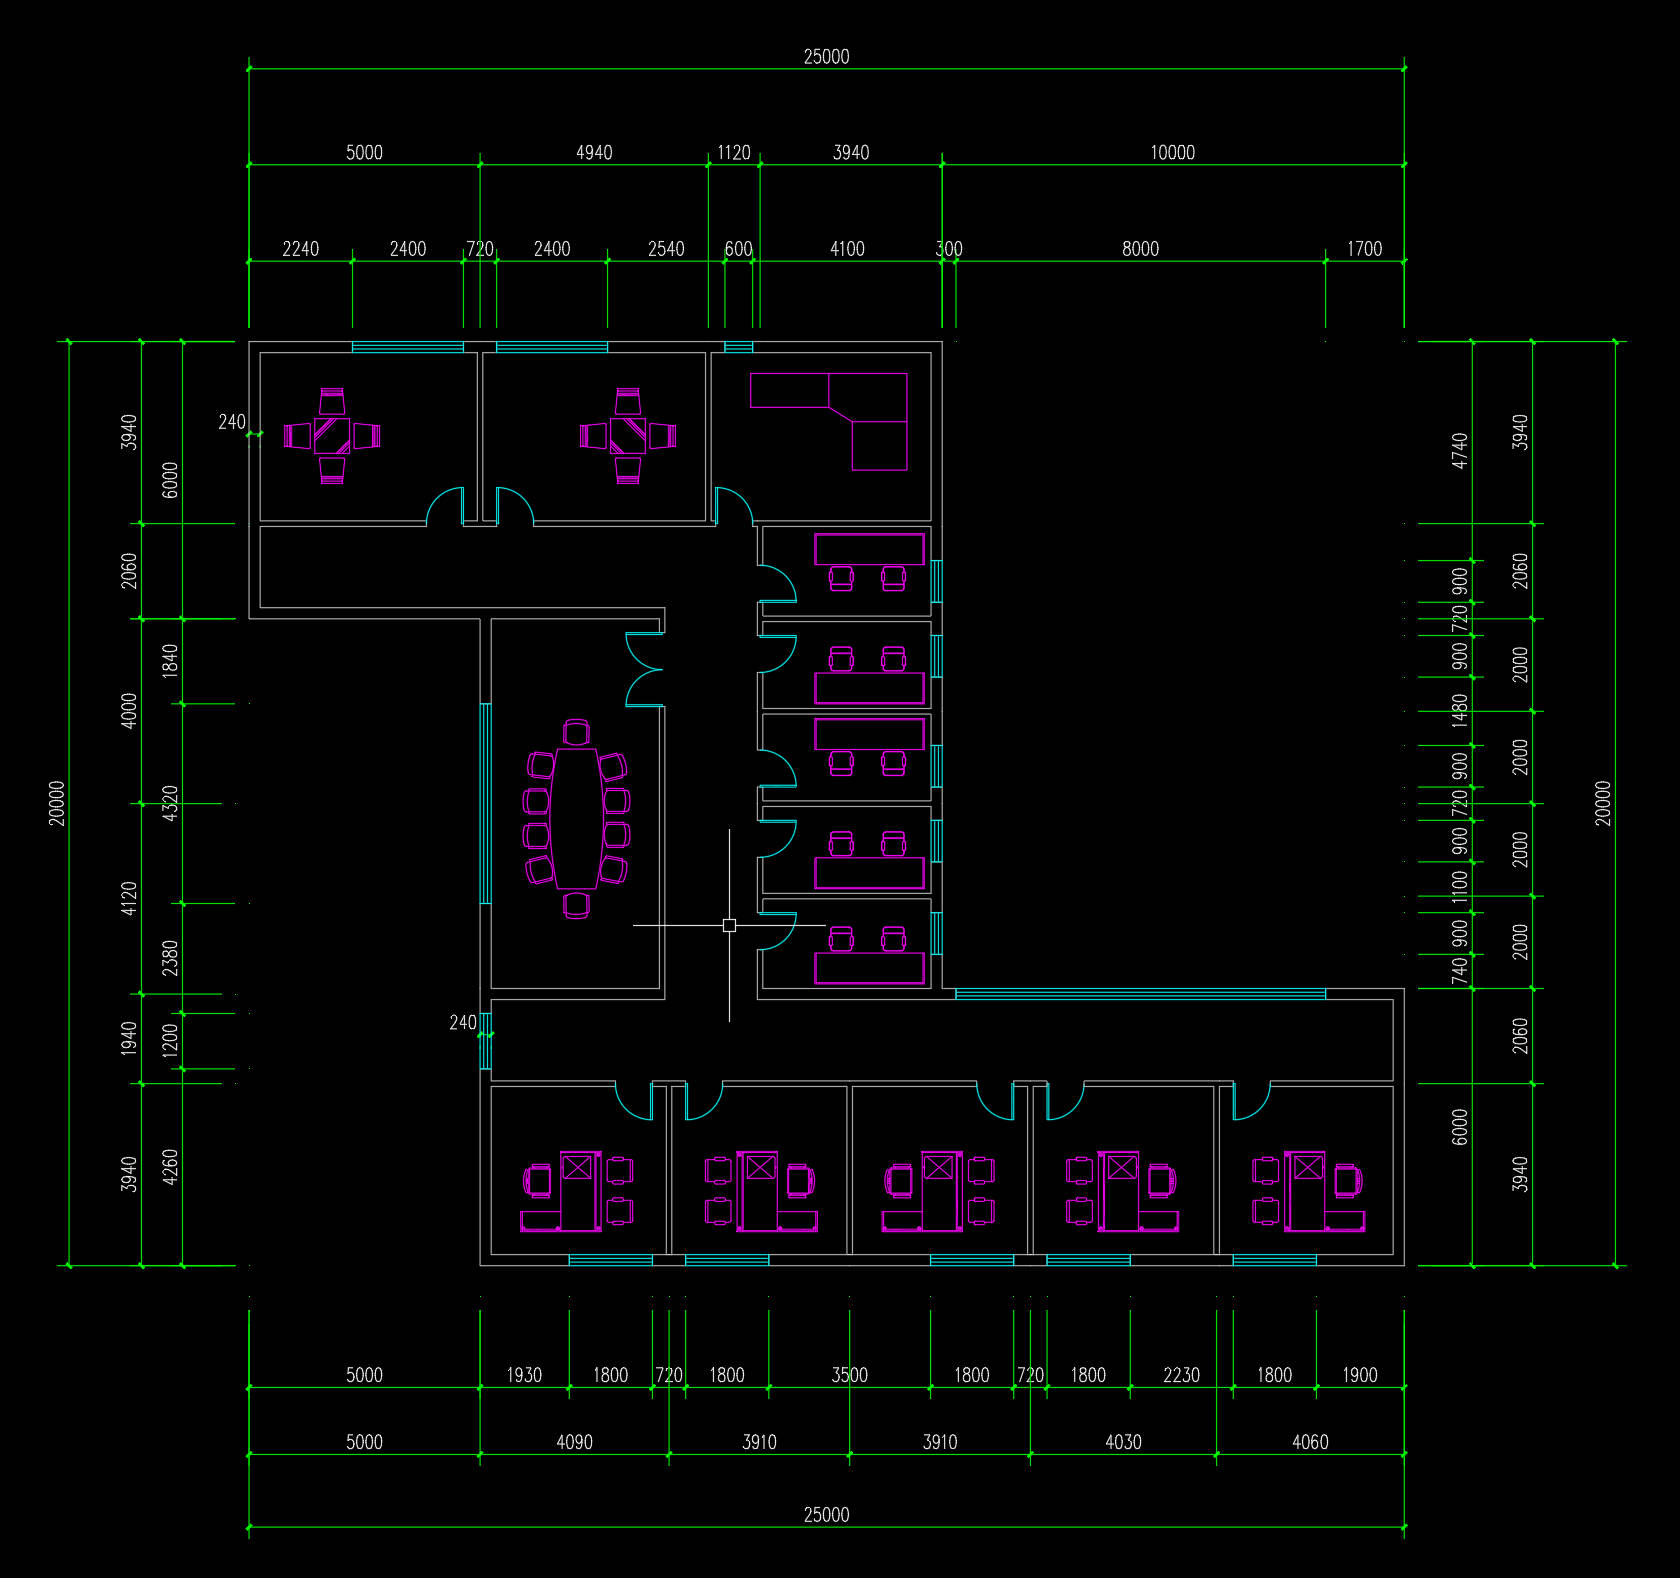
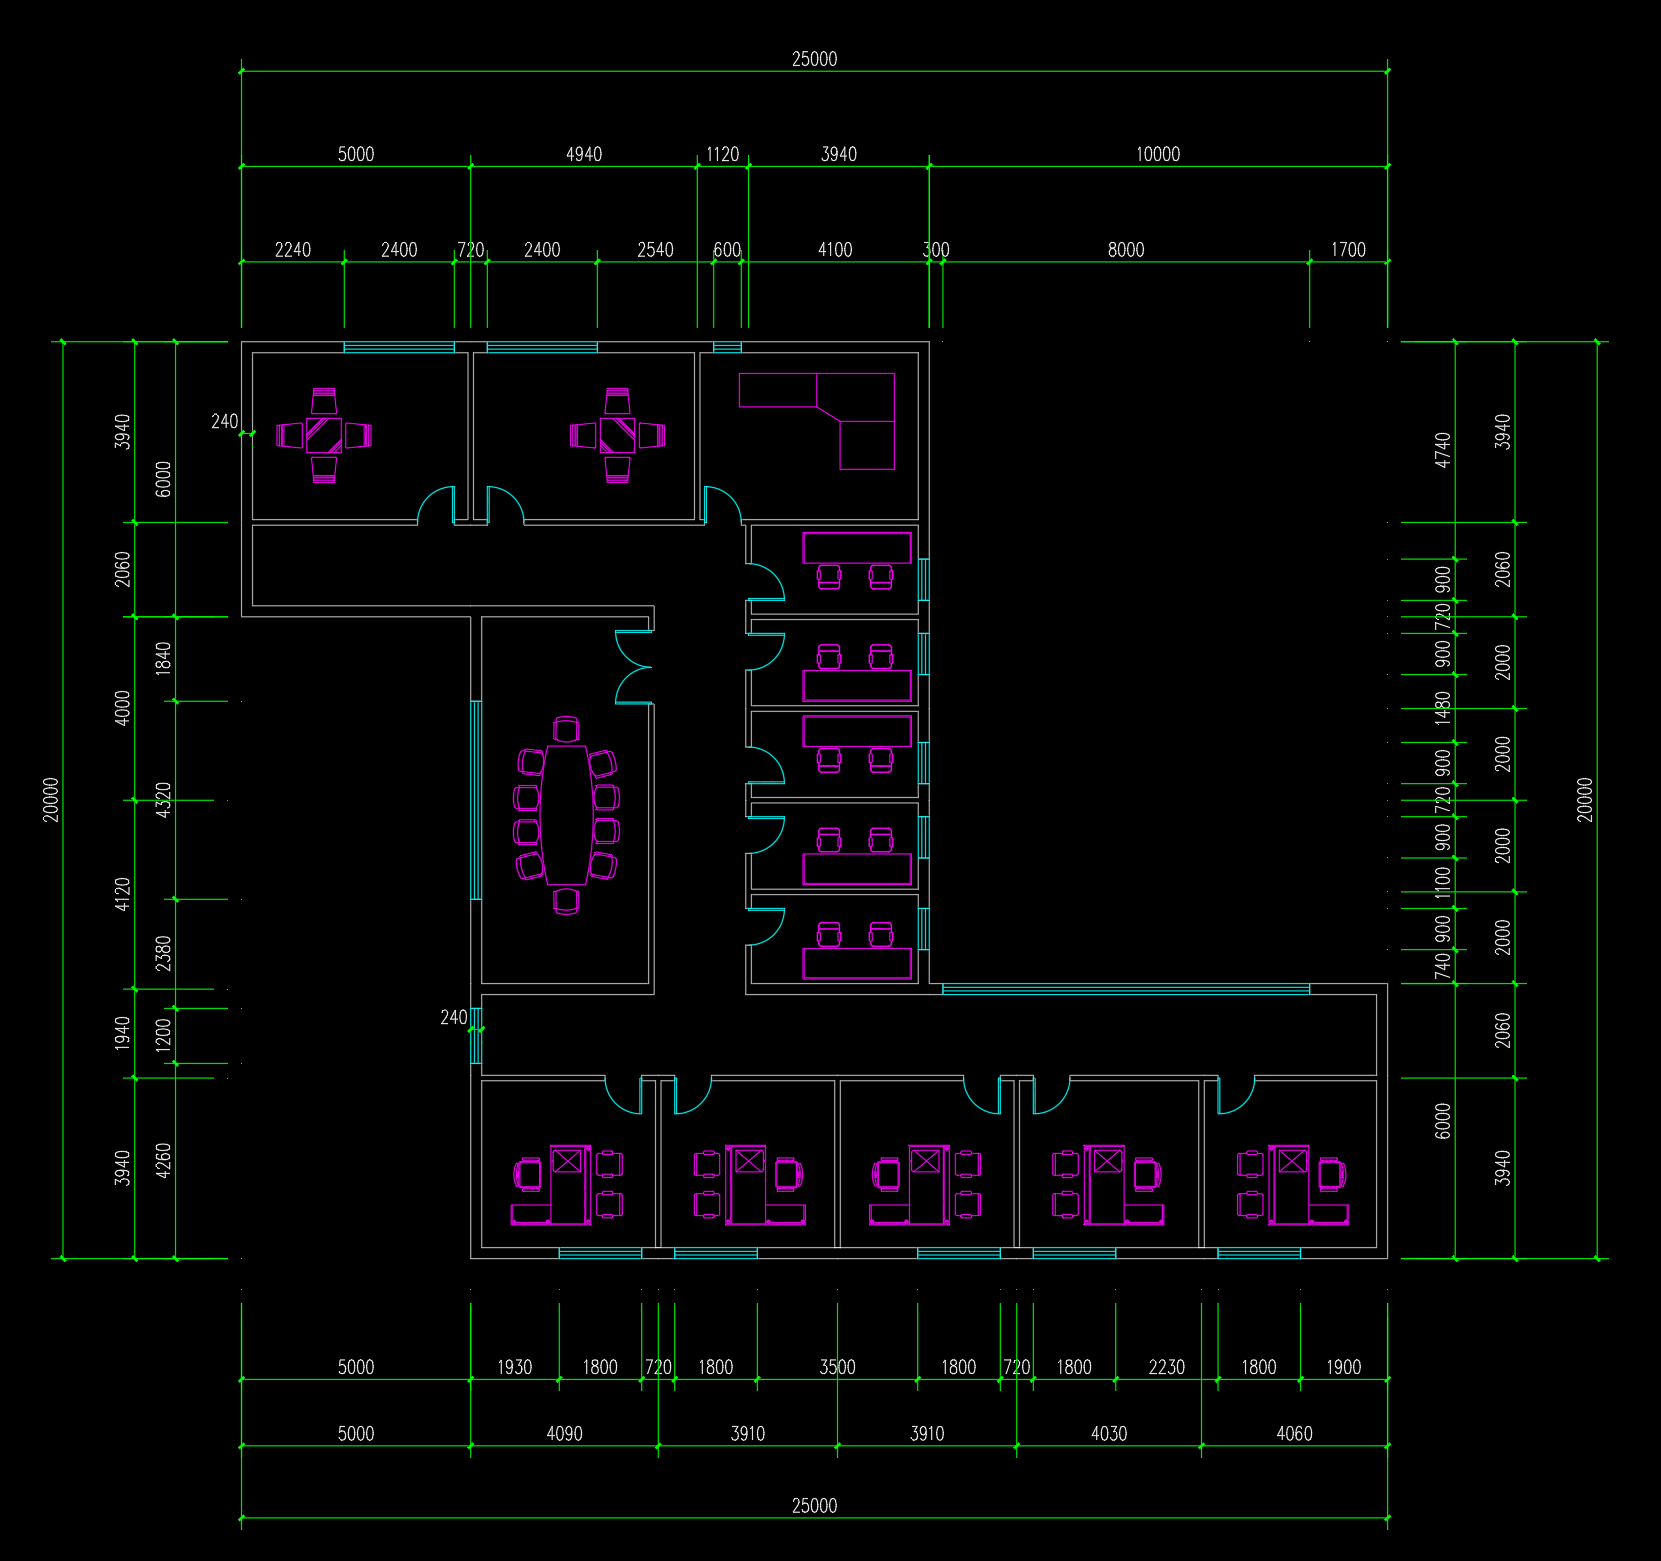
08.20_sm25ElevationCarrierGap_F65_Registered_And_DispatchIssued
① 撞出 F-65：立面洞口提取把「图怎么画」烤死在代码里——window_selector.entity_types
   全文从未被读取（tarch_normalize.py:1694 硬编码 dxftype()=="LINE"），sm25 立面窗
   全是 INSERT(17)+LWPOLYLINE(14) ⇒ 静默产 0 窗 + 21 条 door_block_drift 误报。
   实测应得 31 窗 + 3 门。门那条路同样走不通（要求闭合 LWPOLYLINE，sm25 门块的洞口
   是外框 4 条 LINE）。登记 plan.md。
   ⛔ 顺带撤回我误报的 F-66：拿图块插入点当外包框的代理量，实算 matrix44 后两块相邻
   不重叠 = 一樘 1600 双开门，现行 union 逻辑正好合并它。
② 为何此刻：这是「下一步 = 推 sm25 验 C2」的阻断点，写 16KB 转换请求之前必须先解。
③ 影响：出派工单（sol 施工 / GLM 跨家族审），核心是把洞口画法做成可扩展的方言层
   （用户当面加的硬约束：要兼顾不同画图习惯，且 CAD 模态主线要复用同一环节）+
   一道与方言无关的清点对账门，把「没见过的画法」从静默漏变成指名道姓报红。
   同轮用户已填 testdata（14/15 热区、580m²、Office）并要求删除 source_images。

diff --git a/AI_agent/logs/reviews/request/2026-08-20_tarch_elevation_opening_carriers_dispatch_sol.md b/AI_agent/logs/reviews/request/2026-08-20_tarch_elevation_opening_carriers_dispatch_sol.md
@@ -1,0 +1,227 @@
+# 派工单 · 立面洞口「载体方言层」（F-65 修复 + 拓展性改造）
+
+> **席位**：施工 = **sol**（GPT 家族）· 跨家族审 = **GLM** · 主控 = Claude（出单 / 审裁决 / 轻门全量）
+> **档位**：**工程档**（碰答案产出路径）⇒ gate① + 全仓绿 + 只锁契约与几何不变量
+> **前序**：`b2460bb` 转换器多层化（同一函数族，刚改过，先读那次 diff）
+> **登记**：[plan.md](../../../plan.md) F-65
+
+---
+
+## 0. 一句话
+
+立面洞口的提取现在**把「图怎么画」烤死在代码里**（只认直线）；本批把它改成
+**「画法由请求声明、代码只做匹配与执行」的方言层**，并加一道**清点对账门**，
+让「没见过的画法」必然报红且指名道姓，而不是静默少几扇窗。
+
+---
+
+## 1. ⭐ 硬约束：拓展性与适配性（用户 2026-08-20 当面提，本批第一约束）
+
+用户原话（转述）：**「这部分要兼顾各种各样的图，因为画图习惯不一样，使用的图块、或者手工的画法也不一样，
+这些可能也需要判断，不是一套机械方法可以全部搞定的……这个也要注意拓展性和适配性，
+因为后续 CAD 模态作为主线接入也需要相似的这个环节。」**
+
+⇒ 本批**不是**「给 sm25 补两个 if 分支」。验收时会按下面三条判：
+
+1. **加一种新画法 = 加一条规则实现 + 请求里声明一条规则，⛔ 不得修改任何已有分支。**
+   （审阅方会拿一种本批未实现的画法当思想实验：比如「窗 = 一个 HATCH」或「窗 = 带弧的多段线」，
+   问「接它要动几处已有代码」，答案必须是 0 处已有分支。）
+2. **代码不得推断画法**：不许出现「看起来像窗」「大概是门」这类启发式。
+   认不认得出，只取决于请求里声明了什么；认不出就报红。
+3. **这一层是 CAD 模态主线的同一个环节**：把任意 DXF 实体归类成语义构件（墙/窗/门/其他）。
+   设计与命名要能直接搬过去，⛔ 不要把 `tarch` / 天正专有词烤进通用结构里
+   （方言**内容**可以是天正的，方言**机制**不能是）。
+   参考不变量 #6（[CLAUDE.md §1.5](../../../CLAUDE.md)）：**纯只适用当前一份图的方案没有意义。**
+
+---
+
+## 2. 现状（主控实测 · ⚠ 可能有错，见 §7）
+
+### 2.1 缺陷本体
+
+[`src/agent/judge/tarch_normalize.py:1694`](../../../../src/agent/judge/tarch_normalize.py#L1694)：
+
+```python
+lines = [e for e in msp if e.dxftype() == "LINE" and e.dxf.layer in view.window_selector.layers and _inside(...)]
+```
+
+- **`window_selector.entity_types` 全文从未被读取**（已 grep 全仓确认：唯二引用点是 schema 定义与本行的 `.layers`）。
+  ⇒ schema 里那个字段是**摆设**，声明什么都不影响行为。
+- 提不出东西时**不产任何诊断**（空列表就是空列表）⇒ 静默零，F-64 同族。
+- 门那条路（1700–1754）要求洞口轮廓必须是**一条闭合 LWPOLYLINE**。
+- 门规则取自 `request.plan_views[0].dialect_rules`（**又一个 `[0]`**，与上一轮刚修掉的多层缺陷同形）。
+
+### 2.2 sm25 立面实况（`case_tests/test_baseline/gt_sources/sm25-L_anchor/sm25-L_t3.dxf`）
+
+| 视图框 | 图名 | 窗载体 | 门 |
+|---|---|---|---|
+| `382` | 西立面 | INSERT `$EWDLib$00000533` ×4 | INSERT `$EWDLib$00000621` ×2 |
+| `384` | 南立面 | INSERT `$EWDLib$00000533` ×7 | — |
+| `386` | 北立面 | INSERT `$EWDLib$00000533` ×6 + **闭合 LWPOLYLINE ×2** | — |
+| `388` | 东立面 | **闭合 LWPOLYLINE ×12** | INSERT `$EWDLib$00000621` ×2（相邻，合成 1 樘 1600 双开）|
+
+**应得答案 = 31 扇窗 + 3 樘门。当前跑出 0 扇窗 + 21 条 `door_block_drift` 误报。**
+
+⭐ **注意北立面**：**同一图层上两种载体混用** ⇒ 规则表必须允许多条规则命中同一图层。
+
+### 2.3 两个块定义（主控已拆开看过）
+
+- **窗块 `$EWDLib$00000533`**（8 条 LINE，无 LWPOLYLINE）：
+  外框 `(0,0)-(1200,600)` = 句柄 `316`/`317`/`319`/`31B`；内框 `(50,50)-(1150,550)` = 窗扇线。
+  **洞口 = 外框那 4 条 LINE。**
+- **门块 `$EWDLib$00000621`**（1 LWPOLYLINE + 19 LINE + 1 CIRCLE）：
+  外框 `(0,0)-(1200,2100)` = 句柄 `35E`/`35F`/`360`/`361` = **洞口**；
+  那条 LWPOLYLINE `34E` 是**未闭合的门扇轮廓**（`30..1170 × 0..2070`，比洞口窄 60、矮 30）。
+  ⇒ **现行「structural_outline 必须是闭合 LWPOLYLINE」的约定在这份图上门也走不通**，不只是窗。
+
+⇒ **洞口轮廓必须允许「一组 LINE」**，门窗共用同一条放宽。
+
+---
+
+## 3. 交付物
+
+### D1 · 洞口载体规则（schema，新增，请求级）
+
+新增一张**载体规则表**，门窗共用。建议形状（命名可改，语义不可改）：
+
+```python
+class OpeningCarrierMatchV1(_StrictModel):
+    entity_type: TarchEntityType                     # LINE / LWPOLYLINE / INSERT / ...
+    layers: list[str]                                # 排序去重
+    block_name_exact: str | None = None              # 仅 INSERT
+    block_definition_sha256: Hex64 | None = None     # 仅 INSERT：钉死块定义，一改必红
+
+class OpeningOutlineV1(_StrictModel):
+    kind: Literal["closed_polyline_rect",            # 实体本身即闭合矩形
+                  "connected_line_group_rect",       # 同层连通直线组围成矩形（sm24 原路）
+                  "block_entity_rect"]               # 块内指定实体经插入变换后围成矩形
+    block_entity_roles: list[BlockEntityRoleV1] | None = None   # 仅 block_entity_rect
+
+class OpeningCarrierRuleV1(_StrictModel):
+    carrier_id: StableId                             # 稳定名，进 source_map 当证据
+    opening_kind: Literal["window", "door"]
+    match: OpeningCarrierMatchV1
+    outline: OpeningOutlineV1
+```
+
+- `block_entity_roles` 沿用现行 `entity_roles` 的形态（逐句柄 `structural_outline` / `nonstructural_detail`），
+  但**放宽为「`structural_outline` 可以是 1 条闭合 LWPOLYLINE，或 N 条 LINE」**；
+  N 条 LINE 走 `_rect_from_lines` 成矩形，成不了 ⇒ 红。
+- 规则表挂**请求级**（不是 `plan_views[0]`）。⛔ 顺手把 1701 行那个 `plan_views[0]` 一起干掉。
+
+### D2 · 通用解析器（代码）
+
+一个 `_resolve_opening_carriers(view, rules, msp, tols)`，返回
+`[(carrier_id, opening_kind, rect, consumed_handles, structural_handles)]` + 诊断。
+
+- 三种 `outline.kind` 各是一个**独立小函数**，登记在一张 `dict[kind, fn]` 表里。
+  **新画法 = 表里加一项 + schema 的 Literal 加一个值，⛔ 不动已有项。**（= §1#1 的验收点）
+- `connected_line_group_rect` **必须复用**现有 `_line_components` + `_rect_from_lines`，
+  ⛔ 不许另写一份连通/成矩形逻辑（sm24 产物要逐字段不变）。
+- `block_entity_rect` 变换用 `ins.matrix44()`，与门那条路一致（含镜像/旋转/非等比缩放，sm25 全都有）。
+- 门的**多模块合并**（同 z 带相邻 → 一樘）**保持现状语义不变**，只是输入换成通用解析器的产出。
+  ⭐ 东立面那两片就是靠它合成 1 樘 1600 双开门 —— **这是必须保住的既有正确行为**。
+
+### D3 · ⭐ 清点对账门（本批的安全网，与方言无关）
+
+立面框内、**所有洞口规则声明过的图层**上的每一个实体，必须恰好落入以下之一：
+
+| 归属 | 说明 |
+|---|---|
+| 被某条规则消费 | 记进该洞口的 `raw_handles` |
+| 落在显式忽略声明里 | 请求里新增 `ignore_selector`（图层+类型），用于装饰/标注类 |
+| **其余** | ⇒ **红** `tarch_elevation_entities_unconsumed`，诊断里**逐句柄列出** |
+
+外加两条：
+- **同一实体被两条规则消费 ⇒ 红** `tarch_elevation_entity_double_consumed`（sm25 北立面混载体的直接风险）。
+- 诊断必须带**视图 id + 句柄清单**，让人照着补规则。
+
+> 这条门是「适配性」的兑现方式：换一份画法没见过的图，系统说
+> 「这 12 个句柄我不认识」，而不是给出一个少 12 扇窗、却一路绿到签字页的答案。
+
+### D4 · sm24 请求同步升级到新规则表
+
+- sm24 的请求文件（`tests/fixtures/sm24_review/**/request_v3*.json` 与 `gt_sources/sm24_anchor/` 侧）
+  改写成新表：窗 = `connected_line_group_rect`，门 = `block_entity_rect`。
+- **⛔ 唯一路：不保留旧字段的第二条执行路径。** 旧字段可留作 schema 层的迁移入口，但**执行只走新表**。
+- **等价性由 D5 的锁证明**，不靠肉眼。
+- ⚠ sm24 已签字件的溯源戳本来就已失配（plan.md 已登记，用户允诺重签）⇒ **本批不重签、不晋升**，只证明产物不变。
+
+---
+
+## 4. ⛔ 明确不做
+
+- 不动平面侧提取（本批只碰立面洞口这一段）。
+- 不动判卷 / gt schema / 晋升与签字链路。
+- 不实现本批用不到的画法（HATCH / 弧 / POLYLINE）——**只把接口留出来**，实现留给遇到时。
+- 不做画法**自动识别**（不许写「猜这是窗」的启发式）。
+- 不碰 guard 围栏、不补与本批无关的锁与审。
+
+---
+
+## 5. 锁（跟契约走，⛔ 不给脚手架配锁）
+
+| # | 锁 | 判据 |
+|---|---|---|
+| L1 | **sm24 立面产物逐字段不变** | 新旧两条路对同一份 sm24 输入，`_ElevationRecord` 全字段 + 规范化 DXF 内容逐字段相同 |
+| L2 | **must-red：撤掉 D2 的载体扩展** | 把 sm25 那三种载体喂进去 ⇒ 必须红（⛔ 不许靠「删代码看它红」，要**结构性**必红：见 [[gate-with-only-negative-assertions-is-unobservable]] 的反面——先证明**不加改动时这门本来是绿的**）|
+| L3 | **must-red：删掉任意一条窗规则** | 对账门必须报 `entities_unconsumed` 并列出正确句柄数 |
+| L4 | **must-red：篡改块定义** | `block_definition_sha256` 失配 ⇒ 红 |
+| L5 | **双重消费必红** | 构造两条命中同一实体的规则 ⇒ `entity_double_consumed` |
+
+⚠ **L2/L3 的前置**：每条 must-red 必须先断言**「不施加该扰动时这条用例是绿的」**，
+否则是恒红 = 结构上不可观测（同 [[regression-case-must-prove-its-own-premise]]）。
+
+---
+
+## 6. 验收（施工方自跑，主控复跑）
+
+1. 全仓 `pytest -n auto`：**≥ 2917 绿 + 14 xfail**，零红零闪，**连跑两次**。
+2. L1–L5 五把锁全绿。
+3. 拿 sm25 的 DXF 走一遍立面提取（可用最小请求片段，不需要完整 16KB 请求），
+   产出 **31 扇窗 + 3 樘门**，且**对账门零剩余**。
+   ⇒ 逐视图报数：西 4 窗 2 门 · 南 7 窗 · 北 8 窗 · 东 12 窗 1 门。
+4. §1 的三条拓展性判据，用**文字**回答一遍（审阅方会照着挑）。
+
+---
+
+## 7. ⚠ 本单里可能错的前提（请主动证伪，别继承）
+
+主控上一轮的「停下上报」记录是 **3/3 全是派工方（我）的题出错**，累计 15/15。
+以下每一条都是我的**观测或判断**，不是事实基线：
+
+1. §2.2 的窗/门计数（31/3）与逐视图分布 —— 我用 ezdxf 实测 + 变换矩阵算的，**请独立复算**。
+   ⭐ 我在这一批里**已经错过一次**：先前拿图块的**插入点**当外包框，误报「东立面两门块重合」，
+   实算后是相邻双开门 —— 参见 [[proxy-mistaken-for-the-thing]]。同类错误可能还有。
+2. §2.3 说「洞口 = 外框 4 条线」是我看坐标推的，**没有人确认过这份图的画图约定**。
+   若你判定洞口应取内框或别的，**停下上报**。
+3. §3 的 schema 形状是建议。**若有更能满足 §1 三条判据的形状，改它并说明理由** —— 我的形状不是判据。
+4. 我假设「门的多模块合并语义保持不变」是安全的。若你发现新解析器下它会误合并 sm25 西立面那两樘
+   （相距约 10m，理论上不该合并），**停下上报**。
+5. 我假设平面侧不受影响。若发现 `dialect_rules` 提升到请求级会牵动平面路径，**停下上报**。
+
+**⛔ 停下上报不扣分。** 派工方的题错了 15/15 次，这些都是停下来才捞回来的。
+凡「一律 / 全部 / 共 N 处」这类断言，逐处列值对账后再动手。
+
+---
+
+## 8. 交付形式
+
+- `git diff` + 全量测试输出（两次）+ §6.3 的逐视图报数 + §6.4 的文字回答。
+- ⛔ 不写长篇自述：复核只看原始需求 + diff + 测试输出。
+
+---
+
+## 9. sol 执行护栏（规约 §5 硬条款，本单适用）
+
+sol 原则上不当执行器；本单由用户当轮拍板派 sol，故三条护栏**逐条生效**：
+
+1. **删除 / 覆盖 / 推送 / 外发一律单独授权** —— ⛔ 不得 `git push`、不得 `commit`、
+   不得删除或整体重写既有测试文件；改既有文件只用最小 diff。提交由主控做。
+2. **每阶段给可验证证据**：测试输出原文 / `git diff` / 实际产出数字。
+   ⛔ 「已完成 / 已验证 / 应该没问题」这类自述不算证据（本项目实犯过：
+   [[self-report-more-compliant-than-artifact]]）。
+3. **限单次变更范围**：一个工作包做完停下来重看计划，⛔ 不要一口气推到底。
+   建议切三个包：**① schema + 解析器骨架 → ② 三种载体实现 + sm24 等价 → ③ 对账门 + 五把锁**。
+
+**沙箱**：`danger-full-access`（本机 read-only/workspace-write 会静默回退去读远端 @main，行号不可信）。

diff --git a/AI_agent/plan.md b/AI_agent/plan.md
@@ -64,6 +64,8 @@
 | **⭐ 新** | **已签字答案的溯源戳与现行代码不一致**：sm24 的 `vg_implementation_sha256` 记 `60cab9e6`，干净 HEAD 算出 `8e45fd15`（07-27 后那四个 `correction/` 文件被改过 4 次）。⭐ **但答案内容实测逐字段一致 ⇒ 历史成绩仍可信** | sm24 由用户重签（用户 08-20 允诺）；⚠ 重签时须认真看新叠图（渲染实测差 3–4% 像素）|
 | **⭐ 新 R-1** | **判卷对外轮廓是瞎的**（gt 无 `walls`，只比对分区派生的内隔墙）| → [reading 专项 §10](capability/reading/improvement_methodology.md) |
 | **⭐ 新 R-2** | 读图器**墙/窗基准不一致** | → 与「尺寸基准+墙厚方向」专项**合并决策** |
+| **⭐ 新 F-65** | **立面窗提取只认 `LINE`，`window_selector.entity_types` 从不被读取**（`tarch_normalize.py:1694` 硬编码 `dxftype()=="LINE"`）。sm25 立面窗全是 `INSERT`(17 个 `$EWDLib$00000533`)+`LWPOLYLINE`(14) ⇒ **静默产 0 窗**，另有 17 条 `door_block_drift` 误报（窗块走了门那条路）。F-64 同族（零产出不报红）。实测应得 **31 扇窗 + 3 樘门**（东 12 · 北 8 · 南 7 · 西 4；门：东双开 1 + 西 2）| **⛔ 阻断 sm25 立面 gt**；待用户拍板派工 |
+| ~~F-66~~ | ~~东立面两门块重合~~ **⛔ 我报错了，已撤回**：拿插入点当外包框的代理量，实算 matrix44 变换后两块**相邻不重叠**（x 64727–65527 / 65527–66327）= 一樘 1600 宽双开门，现行 union 平铺逻辑正好合并它 | **撤销**（[[proxy-mistaken-for-the-thing]]）|
 | F-62 · N-1 / N-2 | guard 词法围栏同族缺陷 | **未修**（`observe` 档下影响归零）|
 | F-63 | 跨轴门抓不住拆轴规避 | ⭐ **本轮活体复现**（GPT 主动拆轴消警）；修法归 [专项 §9.1](capability/reading/improvement_methodology.md) |
 | F-64 | gate① 对「零产出」是瞎的 | 登记 |
